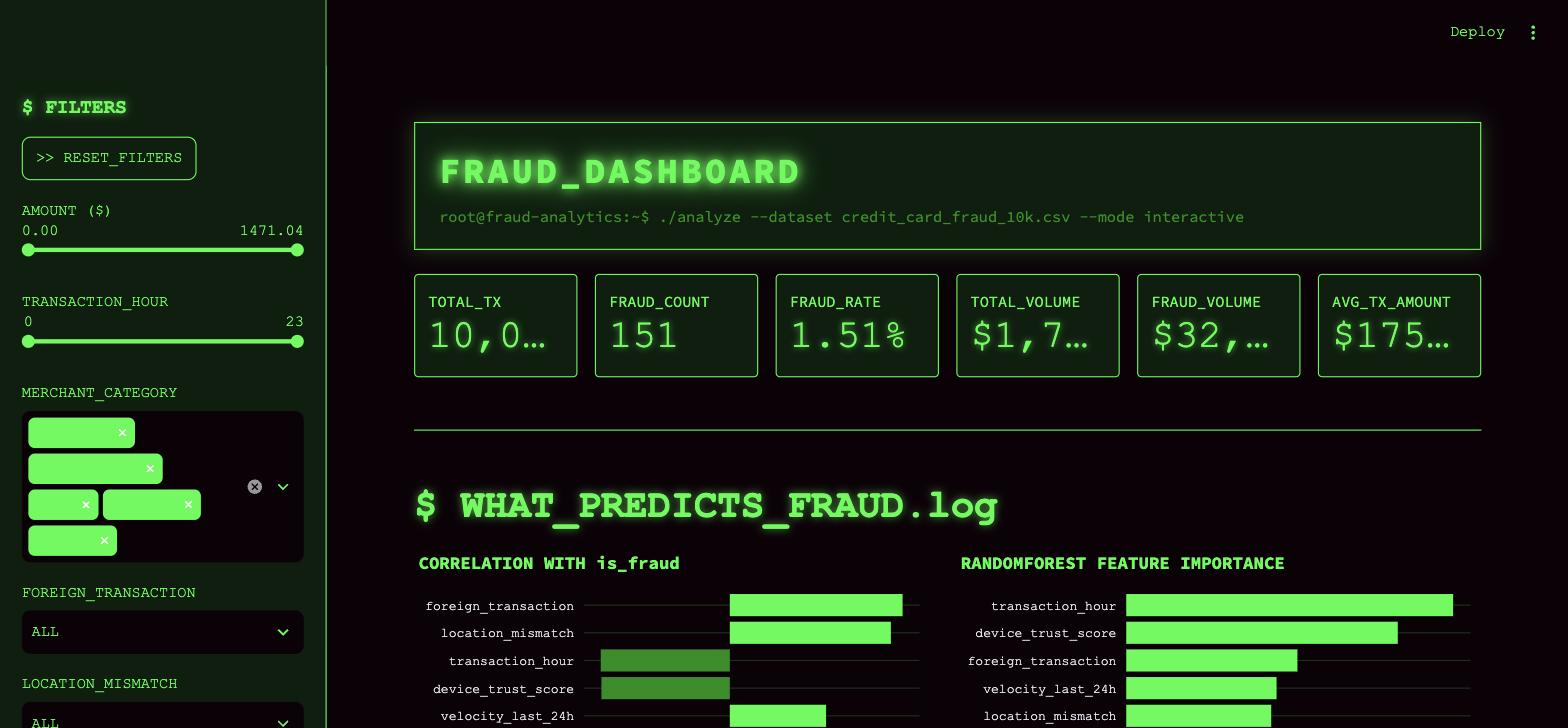
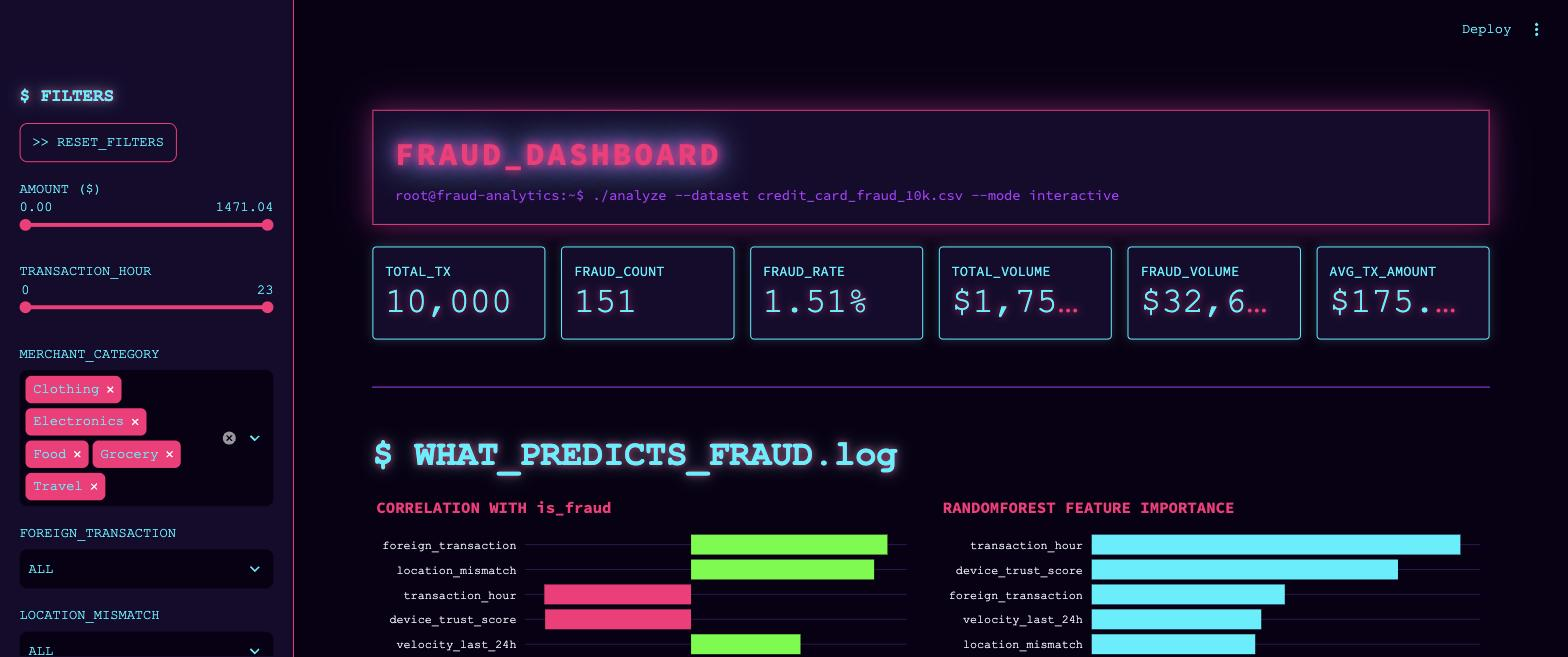
Switch dashboard theme from Matrix green to neon cyberpunk
Deep-purple/black background with hot-pink, cyan, and neon-green
glow accents across the CSS, Streamlit theme config, and Plotly
charts. Refreshed README screenshots to match.

Claude-Session: https://claude.ai/code/session_019nMb1dTC9GSGJgzdG9diY3

diff --git a/app.py b/app.py
@@ -6,11 +6,13 @@ from sklearn.ensemble import RandomForestClassifier
 
 DATA_PATH = "credit_card_fraud_10k.csv"
 
-BG = "#0D0208"
-PANEL_BG = "#0A1F0D"
-GREEN = "#00FF41"
-DIM_GREEN = "#008F11"
-GRID = "#123317"
+BG = "#0A0014"
+PANEL_BG = "#170B2E"
+GRID = "#2A1550"
+CYAN = "#00F0FF"
+PINK = "#FF2079"
+GREEN = "#39FF14"
+PURPLE = "#B026FF"
 
 FEATURE_COLS = [
     "amount",
@@ -27,7 +29,7 @@ FILTER_KEYS = [
     "f_trust", "f_vel", "f_age", "f_fraud",
 ]
 
-st.set_page_config(page_title="FRAUD_DASHBOARD.exe", page_icon="🟢", layout="wide")
+st.set_page_config(page_title="FRAUD_DASHBOARD.exe", page_icon="🟣", layout="wide")
 
 st.markdown(
     """
@@ -36,93 +38,96 @@ st.markdown(
         font-family: 'Courier New', Courier, monospace !important;
     }
     .stApp {
-        background-color: #0D0208;
-        color: #00FF41;
+        background-color: #0A0014;
+        color: #00F0FF;
     }
     section[data-testid="stSidebar"] {
-        background-color: #0A1F0D;
-        border-right: 1px solid #00FF41;
+        background-color: #170B2E;
+        border-right: 1px solid #FF2079;
     }
     section[data-testid="stSidebar"] * {
         font-family: 'Courier New', Courier, monospace !important;
     }
     h1, h2, h3, h4, h5 {
-        color: #00FF41 !important;
-        text-shadow: 0 0 8px rgba(0,255,65,0.6);
+        color: #00F0FF !important;
+        text-shadow: 0 0 8px rgba(255,32,121,0.7), 0 0 16px rgba(0,240,255,0.4);
         font-family: 'Courier New', Courier, monospace !important;
     }
     p, span, label, div, li {
-        color: #00FF41;
+        color: #00F0FF;
     }
     .terminal-banner {
-        border: 1px solid #00FF41;
+        border: 1px solid #FF2079;
         padding: 18px 22px;
         margin-bottom: 22px;
-        background: #0A1F0D;
-        box-shadow: 0 0 18px rgba(0,255,65,0.25);
+        background: #170B2E;
+        box-shadow: 0 0 24px rgba(255,32,121,0.35), 0 0 40px rgba(176,38,255,0.2);
     }
     .banner-title {
         font-size: 32px;
         font-weight: bold;
         letter-spacing: 3px;
-        text-shadow: 0 0 10px #00FF41, 0 0 22px #00FF41;
+        color: #FF2079;
+        text-shadow: 0 0 10px #FF2079, 0 0 22px #B026FF, 0 0 34px #00F0FF;
     }
     .banner-sub {
-        color: #008F11;
+        color: #B026FF;
         margin-top: 6px;
         font-size: 14px;
     }
     .cursor {
+        color: #39FF14;
         animation: blink 1s step-start infinite;
     }
     @keyframes blink { 50% { opacity: 0; } }
     [data-testid="stMetric"] {
-        background-color: #0A1F0D;
-        border: 1px solid #00FF41;
+        background-color: #170B2E;
+        border: 1px solid #00F0FF;
         border-radius: 4px;
         padding: 12px;
+        box-shadow: 0 0 10px rgba(0,240,255,0.2);
     }
     [data-testid="stMetricLabel"] {
-        color: #008F11 !important;
+        color: #B026FF !important;
     }
     [data-testid="stMetricValue"] {
-        color: #00FF41 !important;
-        text-shadow: 0 0 6px rgba(0,255,65,0.6);
+        color: #FF2079 !important;
+        text-shadow: 0 0 8px rgba(255,32,121,0.7);
     }
     hr {
-        border-color: #00FF41 !important;
+        border-color: #B026FF !important;
     }
     .stButton>button, .stDownloadButton>button {
-        background-color: #0A1F0D;
-        color: #00FF41;
-        border: 1px solid #00FF41;
+        background-color: #170B2E;
+        color: #00F0FF;
+        border: 1px solid #FF2079;
         font-family: 'Courier New', Courier, monospace;
     }
     .stButton>button:hover, .stDownloadButton>button:hover {
-        background-color: #00FF41;
-        color: #0D0208;
+        background-color: #FF2079;
+        color: #0A0014;
     }
     [data-testid="stDataFrame"] {
-        border: 1px solid #00FF41;
+        border: 1px solid #00F0FF;
     }
     ::-webkit-scrollbar { width: 10px; height: 10px; }
-    ::-webkit-scrollbar-track { background: #0D0208; }
-    ::-webkit-scrollbar-thumb { background: #008F11; }
+    ::-webkit-scrollbar-track { background: #0A0014; }
+    ::-webkit-scrollbar-thumb { background: #B026FF; }
     </style>
     """,
     unsafe_allow_html=True,
 )
 
 
-def matrix_theme(fig, height=380, title=None):
+def neon_theme(fig, height=380, title=None):
     fig.update_layout(
         paper_bgcolor=BG,
         plot_bgcolor=BG,
-        font=dict(family="Courier New, monospace", color=GREEN),
-        title=dict(text=title, font=dict(color=GREEN)) if title else None,
-        xaxis=dict(gridcolor=GRID, zerolinecolor=GRID, color=GREEN),
-        yaxis=dict(gridcolor=GRID, zerolinecolor=GRID, color=GREEN),
-        legend=dict(font=dict(color=GREEN), bgcolor="rgba(0,0,0,0)"),
+        font=dict(family="Courier New, monospace", color=CYAN),
+        title=dict(text=title, font=dict(color=PINK)) if title else None,
+        xaxis=dict(gridcolor=GRID, zerolinecolor=GRID, color=CYAN),
+        yaxis=dict(gridcolor=GRID, zerolinecolor=GRID, color=CYAN),
+        legend=dict(font=dict(color=CYAN), bgcolor="rgba(0,0,0,0)"),
         height=height,
         margin=dict(l=10, r=10, t=40 if title else 10, b=10),
     )
@@ -259,19 +264,19 @@ else:
             x=corr.values,
             y=corr.index,
             orientation="h",
-            marker_color=[GREEN if v >= 0 else DIM_GREEN for v in corr.values],
+            marker_color=[GREEN if v >= 0 else PINK for v in corr.values],
         )
     )
-    matrix_theme(fig_corr, title="CORRELATION WITH is_fraud")
+    neon_theme(fig_corr, title="CORRELATION WITH is_fraud")
     fc1.plotly_chart(fig_corr, use_container_width=True)
 
     rf = RandomForestClassifier(n_estimators=200, random_state=42, class_weight="balanced")
     rf.fit(X, y)
     importances = pd.Series(rf.feature_importances_, index=X.columns).sort_values()
     fig_rf = go.Figure(
-        go.Bar(x=importances.values, y=importances.index, orientation="h", marker_color=GREEN)
+        go.Bar(x=importances.values, y=importances.index, orientation="h", marker_color=CYAN)
     )
-    matrix_theme(fig_rf, title="RANDOMFOREST FEATURE IMPORTANCE")
+    neon_theme(fig_rf, title="RANDOMFOREST FEATURE IMPORTANCE")
     fc2.plotly_chart(fig_rf, use_container_width=True)
 
 st.markdown("---")
@@ -288,9 +293,9 @@ cat_stats = filtered_df.groupby("merchant_category").agg(
 )
 cat_stats["fraud_rate"] = cat_stats["fraud"] / cat_stats["total"] * 100
 fig_cat = go.Figure(
-    go.Bar(x=cat_stats.index, y=cat_stats["fraud_rate"], marker_color=GREEN)
+    go.Bar(x=cat_stats.index, y=cat_stats["fraud_rate"], marker_color=PINK)
 )
-matrix_theme(fig_cat, title="FRAUD RATE (%) BY MERCHANT_CATEGORY")
+neon_theme(fig_cat, title="FRAUD RATE (%) BY MERCHANT_CATEGORY")
 ec1.plotly_chart(fig_cat, use_container_width=True)
 
 hour_stats = filtered_df.groupby("transaction_hour").agg(
@@ -298,9 +303,9 @@ hour_stats = filtered_df.groupby("transaction_hour").agg(
 )
 hour_stats["fraud_rate"] = hour_stats["fraud"] / hour_stats["total"] * 100
 fig_hour = go.Figure(
-    go.Bar(x=hour_stats.index, y=hour_stats["fraud_rate"], marker_color=GREEN)
+    go.Bar(x=hour_stats.index, y=hour_stats["fraud_rate"], marker_color=PINK)
 )
-matrix_theme(fig_hour, title="FRAUD RATE (%) BY TRANSACTION_HOUR")
+neon_theme(fig_hour, title="FRAUD RATE (%) BY TRANSACTION_HOUR")
 ec2.plotly_chart(fig_hour, use_container_width=True)
 
 ec3, ec4 = st.columns(2)
@@ -310,7 +315,7 @@ fig_amt.add_trace(
     go.Histogram(
         x=filtered_df.loc[filtered_df["is_fraud"] == 0, "amount"],
         name="LEGIT",
-        marker_color=DIM_GREEN,
+        marker_color=CYAN,
         opacity=0.75,
     )
 )
@@ -318,12 +323,12 @@ fig_amt.add_trace(
     go.Histogram(
         x=filtered_df.loc[filtered_df["is_fraud"] == 1, "amount"],
         name="FRAUD",
-        marker_color=GREEN,
+        marker_color=PINK,
         opacity=0.75,
     )
 )
 fig_amt.update_layout(barmode="overlay")
-matrix_theme(fig_amt, title="AMOUNT DISTRIBUTION :: FRAUD VS LEGIT")
+neon_theme(fig_amt, title="AMOUNT DISTRIBUTION :: FRAUD VS LEGIT")
 ec3.plotly_chart(fig_amt, use_container_width=True)
 
 fig_trust = go.Figure()
@@ -331,17 +336,17 @@ fig_trust.add_trace(
     go.Box(
         y=filtered_df.loc[filtered_df["is_fraud"] == 0, "device_trust_score"],
         name="LEGIT",
-        marker_color=DIM_GREEN,
+        marker_color=CYAN,
     )
 )
 fig_trust.add_trace(
     go.Box(
         y=filtered_df.loc[filtered_df["is_fraud"] == 1, "device_trust_score"],
         name="FRAUD",
-        marker_color=GREEN,
+        marker_color=PINK,
     )
 )
-matrix_theme(fig_trust, title="DEVICE_TRUST_SCORE :: FRAUD VS LEGIT")
+neon_theme(fig_trust, title="DEVICE_TRUST_SCORE :: FRAUD VS LEGIT")
 ec4.plotly_chart(fig_trust, use_container_width=True)
 
 st.markdown("---")

diff --git a/README.md b/README.md
@@ -1,6 +1,6 @@
 # FRAUD_DASHBOARD.exe
 
-A Streamlit dashboard for exploring `credit_card_fraud_10k.csv`, styled like a classic green-on-black hacker terminal. Filter and sort 10,000 transactions and see which features are most predictive of fraud.
+A Streamlit dashboard for exploring `credit_card_fraud_10k.csv`, styled with a neon cyberpunk color scheme (deep-purple/black background, hot-pink, cyan, and neon-green glow accents on a monospace terminal aesthetic). Filter and sort 10,000 transactions and see which features are most predictive of fraud.
 
 ## Screenshots
 
